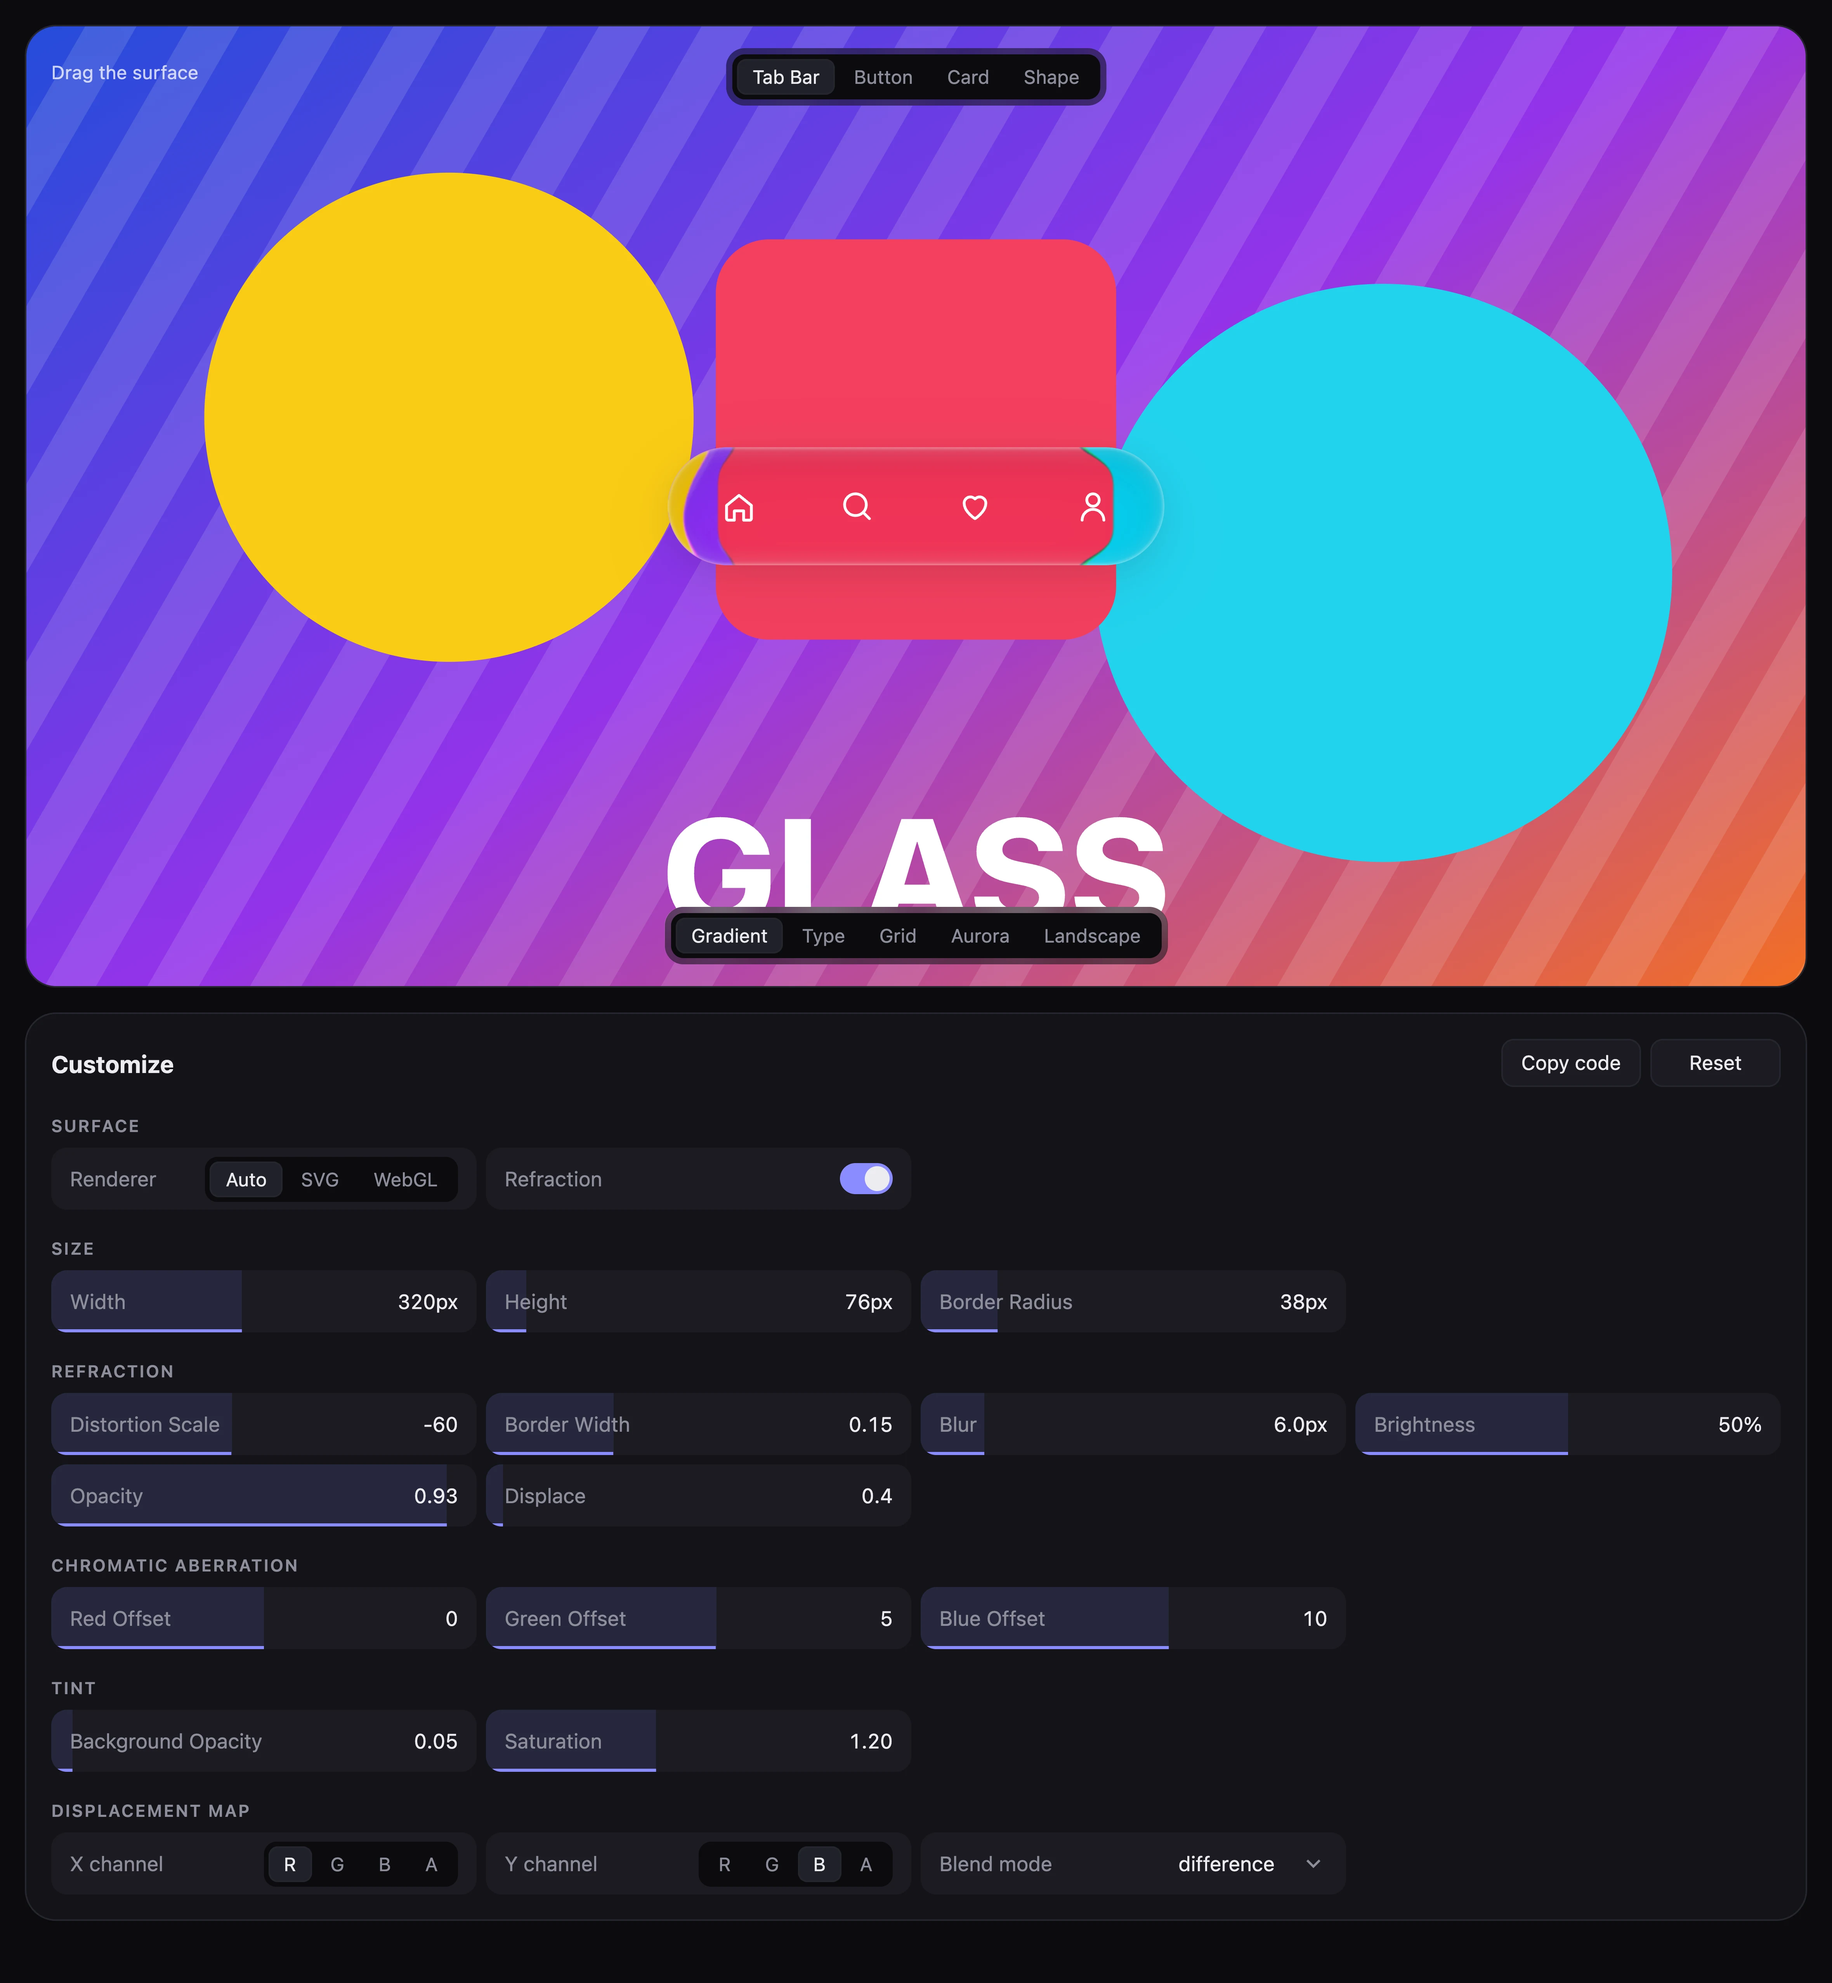
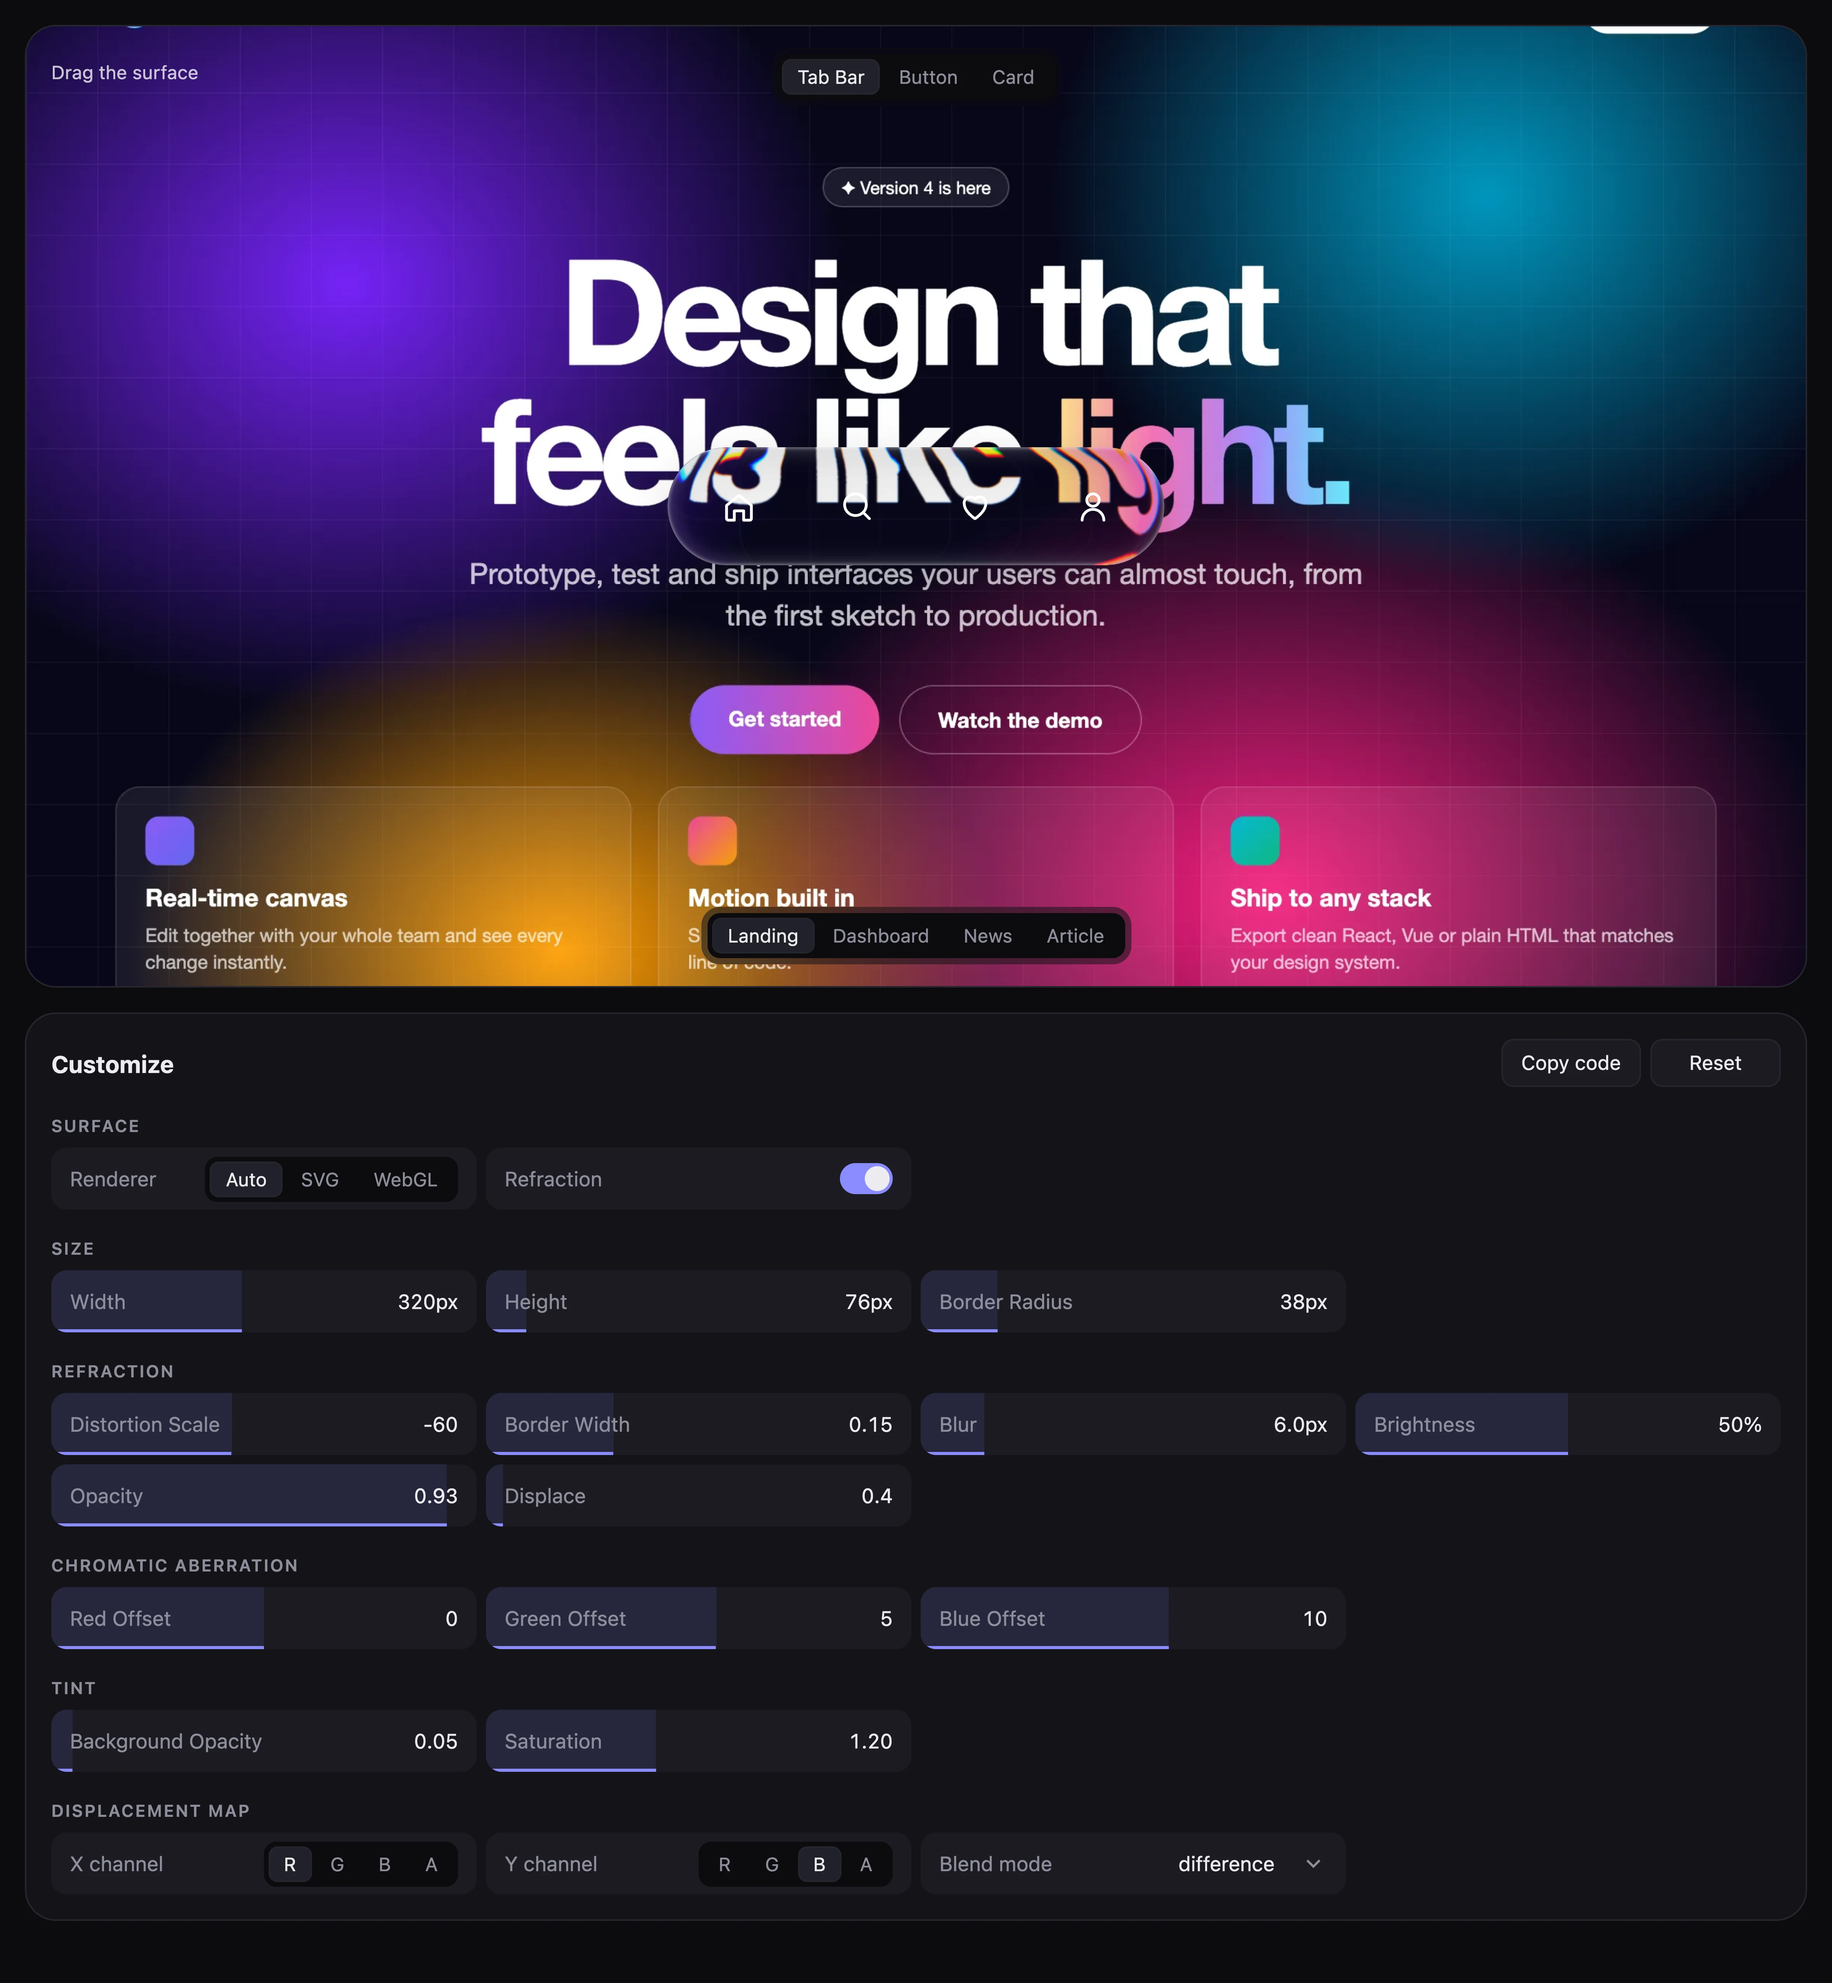
feat(playground): replace the backdrops with four web pages
A landing page, a dashboard, a news front page and a long-read article, rendered from HTML into WebP, so the glass refracts real interfaces and type. The star preset goes; the shape option stays in the library.

diff --git a/playground/src/app.tsx b/playground/src/app.tsx
@@ -13,7 +13,7 @@ import {
   SliderControl,
   ToggleControl,
 } from "./controls";
-import { PRESET_CONTENT, PRESET_SHAPES } from "./presets";
+import { PRESET_CONTENT } from "./presets";
 import {
   BACKDROP_OPTIONS,
   type BackdropName,
@@ -31,8 +31,8 @@ import {
 import { createSnippet } from "./snippet";
 import { useDrag } from "./use-drag";
 
-const BACKDROP_WIDTH = 1600;
-const BACKDROP_HEIGHT = 1000;
+const BACKDROP_WIDTH = 2400;
+const BACKDROP_HEIGHT = 1500;
 
 const COPIED_NOTICE_DURATION = 1500;
 
@@ -55,7 +55,7 @@ export function App(): ReactNode {
   const backdropRef = useRef<HTMLImageElement>(null);
 
   const [settings, setSettings] = useState<Settings>(PRESET_SETTINGS.tabBar);
-  const [backdrop, setBackdrop] = useState<BackdropName>("gradient");
+  const [backdrop, setBackdrop] = useState<BackdropName>("landing");
   const [copied, setCopied] = useState(false);
 
   const drag = useDrag(stageRef);
@@ -67,8 +67,6 @@ export function App(): ReactNode {
   const updateRefraction = useSettingUpdater("refraction", setSettings);
 
   const { preset, ...surfaceSettings } = settings;
-
-  const shape = PRESET_SHAPES[preset];
 
   const updateNumber = useCallback(function applyNumberSetting(
     key: NumericSetting,
@@ -91,7 +89,7 @@ export function App(): ReactNode {
 
   const copySnippet = useCallback(
     async function writeSnippet() {
-      await navigator.clipboard.writeText(createSnippet(settings, shape));
+      await navigator.clipboard.writeText(createSnippet(settings));
 
       setCopied(true);
 
@@ -99,7 +97,7 @@ export function App(): ReactNode {
         setCopied(false);
       }, COPIED_NOTICE_DURATION);
     },
-    [settings, shape]
+    [settings]
   );
 
   const handleStyle = {
@@ -115,7 +113,7 @@ export function App(): ReactNode {
           className="stage__backdrop"
           height={BACKDROP_HEIGHT}
           ref={backdropRef}
-          src={`/backdrops/${backdrop}.svg`}
+          src={`/backdrops/${backdrop}.webp`}
           width={BACKDROP_WIDTH}
         />
 
@@ -135,11 +133,7 @@ export function App(): ReactNode {
           onPointerUp={drag.handlePointerUp}
           style={handleStyle}
         >
-          <GlassSurface
-            {...surfaceSettings}
-            backdrop={backdropRef}
-            shape={shape}
-          >
+          <GlassSurface {...surfaceSettings} backdrop={backdropRef}>
             {PRESET_CONTENT[preset]}
           </GlassSurface>
         </div>

diff --git a/playground/src/settings.ts b/playground/src/settings.ts
@@ -6,14 +6,9 @@ import type {
   GlassSurfaceOptions,
 } from "@svidskiy/glass-surface-react";
 
-export type PresetName = "tabBar" | "button" | "card" | "shape";
+export type PresetName = "tabBar" | "button" | "card";
 
-export type BackdropName =
-  | "gradient"
-  | "type"
-  | "grid"
-  | "aurora"
-  | "landscape";
+export type BackdropName = "landing" | "dashboard" | "news" | "article";
 
 export type NumericSetting =
   | "width"
@@ -203,15 +198,13 @@ export const PRESET_OPTIONS: Option<PresetName>[] = [
   { label: "Tab Bar", value: "tabBar" },
   { label: "Button", value: "button" },
   { label: "Card", value: "card" },
-  { label: "Shape", value: "shape" },
 ];
 
 export const BACKDROP_OPTIONS: Option<BackdropName>[] = [
-  { label: "Gradient", value: "gradient" },
-  { label: "Type", value: "type" },
-  { label: "Grid", value: "grid" },
-  { label: "Aurora", value: "aurora" },
-  { label: "Landscape", value: "landscape" },
+  { label: "Landing", value: "landing" },
+  { label: "Dashboard", value: "dashboard" },
+  { label: "News", value: "news" },
+  { label: "Article", value: "article" },
 ];
 
 export const RENDERER_OPTIONS: Option<GlassRenderer>[] = [
@@ -262,13 +255,6 @@ export const PRESET_SETTINGS: Record<PresetName, Settings> = {
     height: 220,
     preset: "card",
     width: 360,
-  },
-  shape: {
-    ...defaultOptions,
-    borderRadius: 0,
-    height: 240,
-    preset: "shape",
-    width: 240,
   },
   tabBar: {
     ...defaultOptions,

diff --git a/playground/src/snippet.ts b/playground/src/snippet.ts
@@ -16,17 +16,15 @@ function formatProp(name: string, value: unknown): string {
 }
 
 /** JSX for the surface with every prop that differs from the component defaults. */
-export function createSnippet(
-  settings: Settings,
-  shape: string | null
-): string {
+export function createSnippet(settings: Settings): string {
   const { preset, ...props } = settings;
 
-  const changed = Object.entries({ ...props, shape }).filter(
-    function differsFromDefault([name, value]) {
-      return value !== COMPONENT_DEFAULTS[name];
-    }
-  );
+  const changed = Object.entries(props).filter(function differsFromDefault([
+    name,
+    value,
+  ]) {
+    return value !== COMPONENT_DEFAULTS[name];
+  });
 
   const lines = changed.map(function toLine([name, value]) {
     return `  ${formatProp(name, value)}`;

diff --git a/playground/src/presets.tsx b/playground/src/presets.tsx
@@ -60,13 +60,5 @@ function Card(): ReactNode {
 export const PRESET_CONTENT: Record<PresetName, ReactNode> = {
   button: <span className="label">Get started</span>,
   card: <Card />,
-  shape: <span className="label">Star</span>,
   tabBar: <TabBar />,
-};
-
-export const PRESET_SHAPES: Record<PresetName, string | null> = {
-  button: null,
-  card: null,
-  shape: "/star.svg",
-  tabBar: null,
 };
